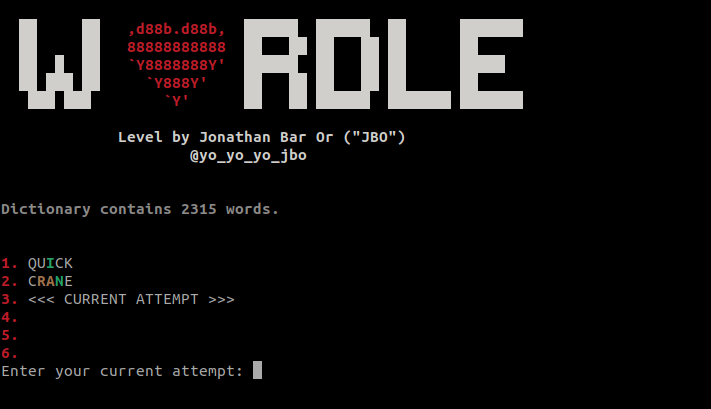
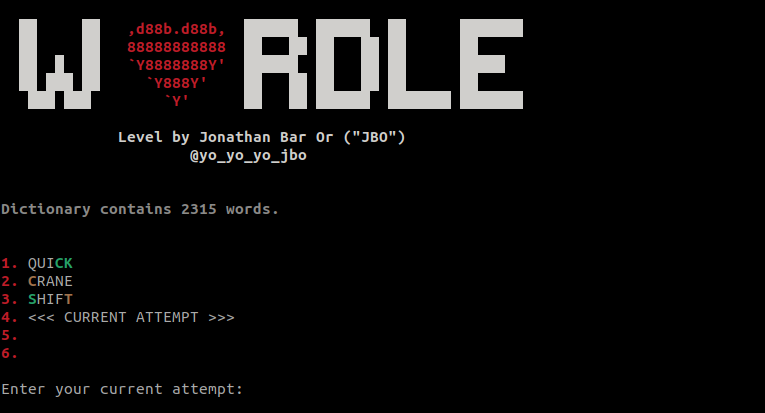
new screenshot

diff --git a/wordle.c b/wordle.c
@@ -324,7 +324,7 @@ play_one_round(
         print_game_header(last_error_message, attempts, curr_word, past_attempts, number_of_dict_words);
 
         // Get user input
-        (void)printf("Enter your current attempt: ");
+        (void)printf("\nEnter your current attempt: ");
         (void)memset(curr_attempt, '\0', sizeof(curr_attempt));
         if (NULL == fgets(curr_attempt, sizeof(curr_attempt) - 1, stdin))
         {
